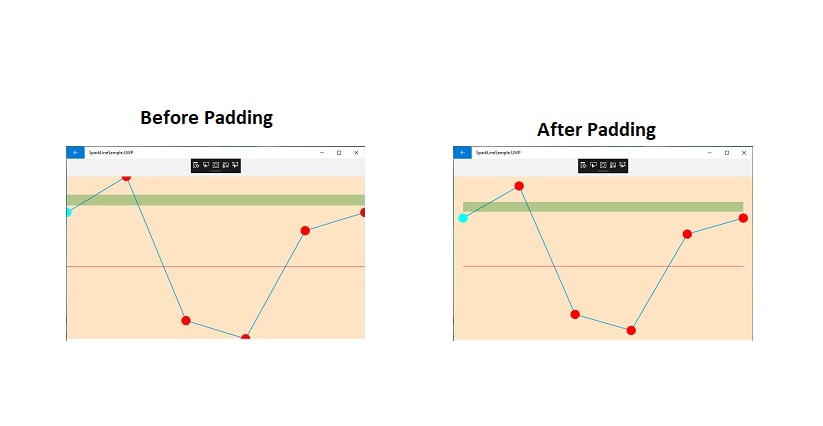
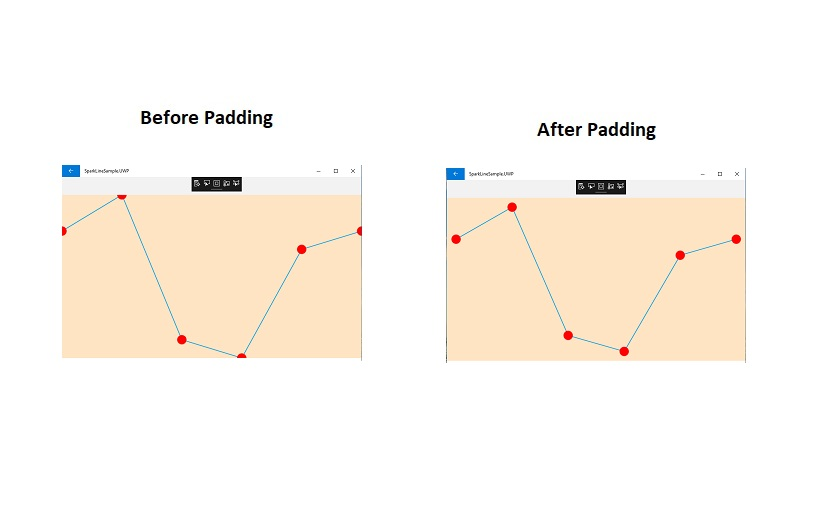
XAMARIN-31161 Prepare and publish UG content for Padding support in SfSparkline control

diff --git a/Xamarin/SfSparkline/customize-data-points.md b/Xamarin/SfSparkline/customize-data-points.md
@@ -106,4 +106,45 @@ SfColumnSparkline columnSparkline = new SfColumnSparkline()
 
 The `padding` property represents the distance between an element and its child elements. Padding can be applied in specific direction or in all directions. Padding can be applied for all sparkline types.
 
+{% tabs %} 
+
+{% highlight xaml %}
+
+ <sparkline:SfLineSparkline ItemsSource="{Binding Data}" 
+                              YBindingPath="Performance"
+                              BackgroundColor="Bisque"
+                              Padding="25"
+                              >   
+<sparkline:SfLineSparkline.Marker>
+	       <sparkline:MarkerBase                                      IsVisible="True" 
+                                Color = "Red"
+                                 Width="15"
+                                 Height="15"/>
+     </sparkline:SfLineSparkline.Marker>                                
+  
+</sparkline:SfLineSparkline>
+
+{% endhighlight %}
+
+{% highlight c# %}
+
+SfLineSparkline lineSparkline = new SfLineSparkline()
+{
+    YBindingPath = "Performance",
+    ItemsSource = viewModel.Data,
+    BackgroundColor = Color.Bisque,
+    Padding = new Thickness(25),
+    Marker = new MarkerBase()
+    {
+        IsVisible = true,
+        Color = Color.Red,
+        Width = 15,
+        Height = 15
+    }
+};
+
+{% endhighlight %}
+
+{% endtabs %}
+
 ![Padding in Xamarin.Forms Sparkline](sparkline_images/PaddingSparkline.jpg)
